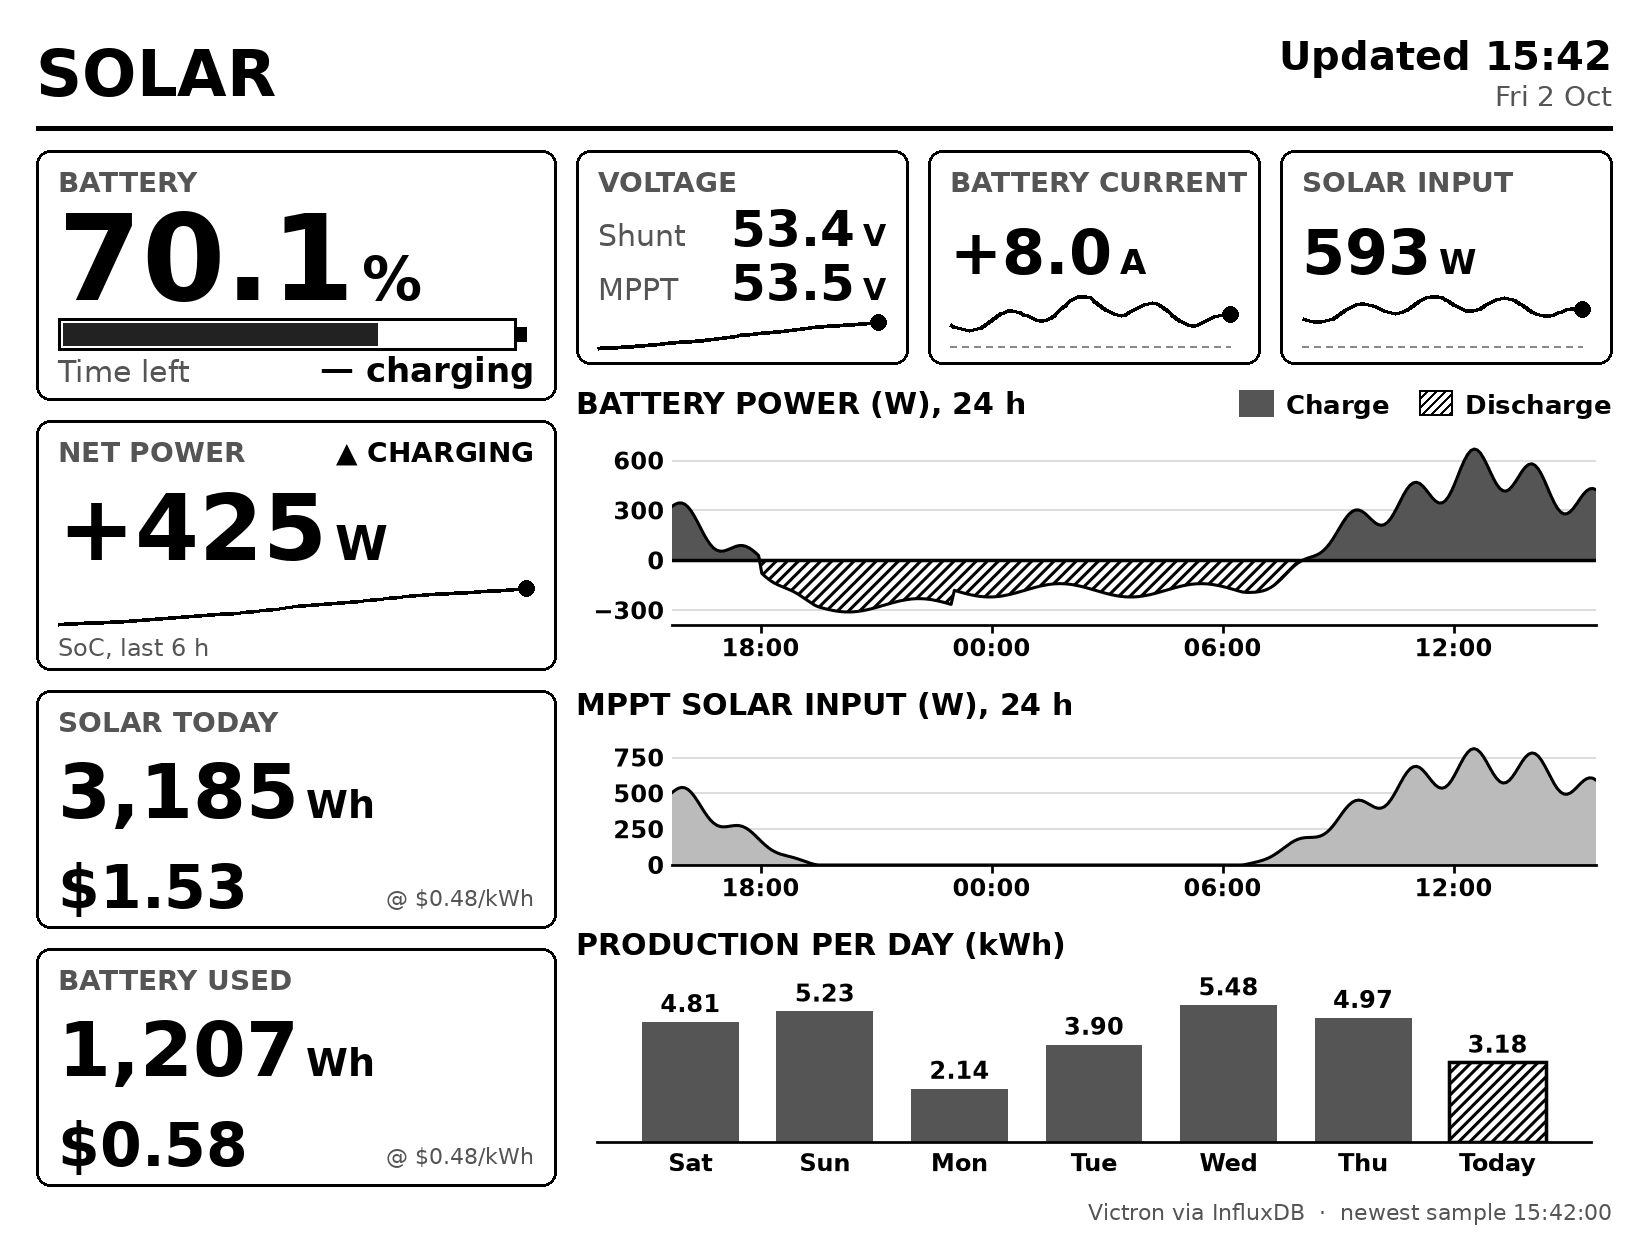
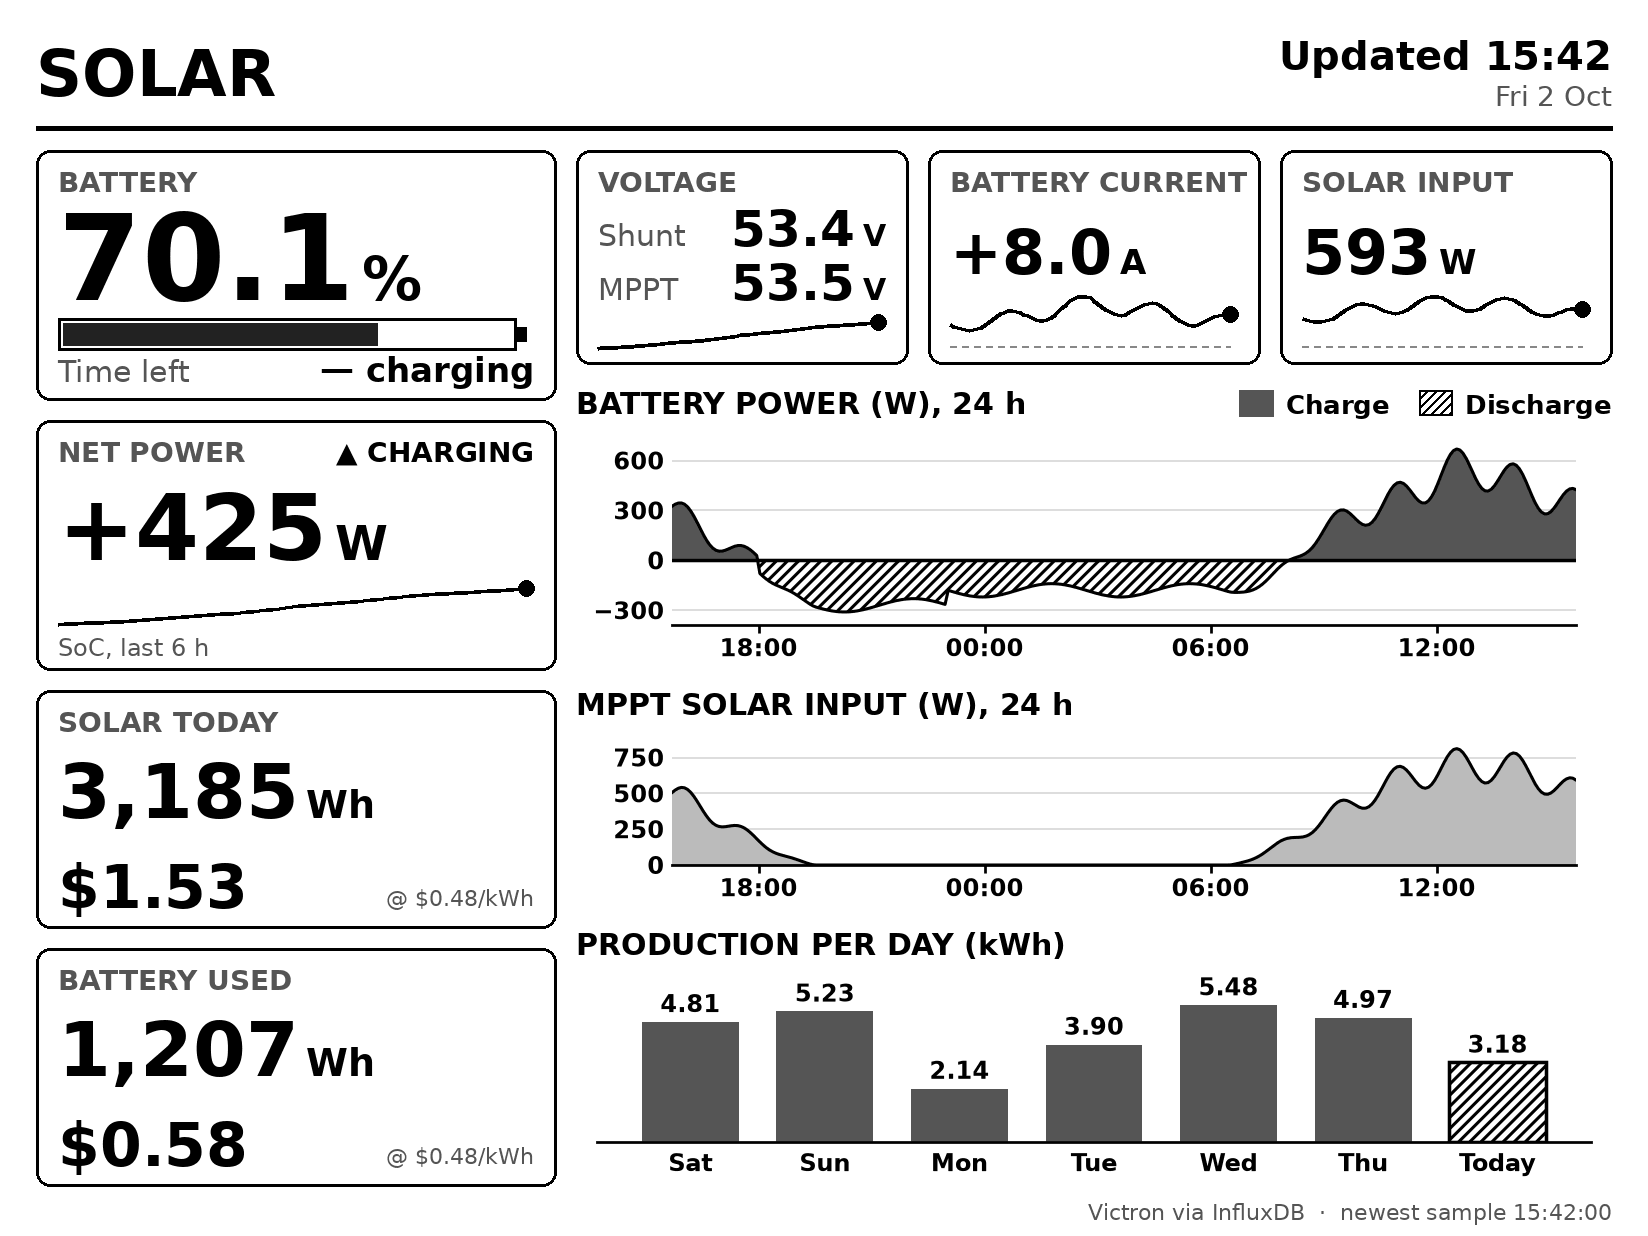
Charts: leave room for a tick label at the right edge

diff --git a/kindle_dash/render.py b/kindle_dash/render.py
@@ -181,7 +181,7 @@ _setup_mpl()
 def _fig(w: int, h: int):
     fig = plt.figure(figsize=(w / 100, h / 100), dpi=100, facecolor="white")
     # fixed pixel margins so tick labels never clip, whatever the height
-    left, bottom, top, right = 96, 40, 8, 16
+    left, bottom, top, right = 96, 40, 8, 36  # right: room for a tick label at the edge
     ax = fig.add_axes((left / w, bottom / h, 1 - (left + right) / w, 1 - (bottom + top) / h))
     ax.set_facecolor("white")
     for side in ("top", "right", "left"):
